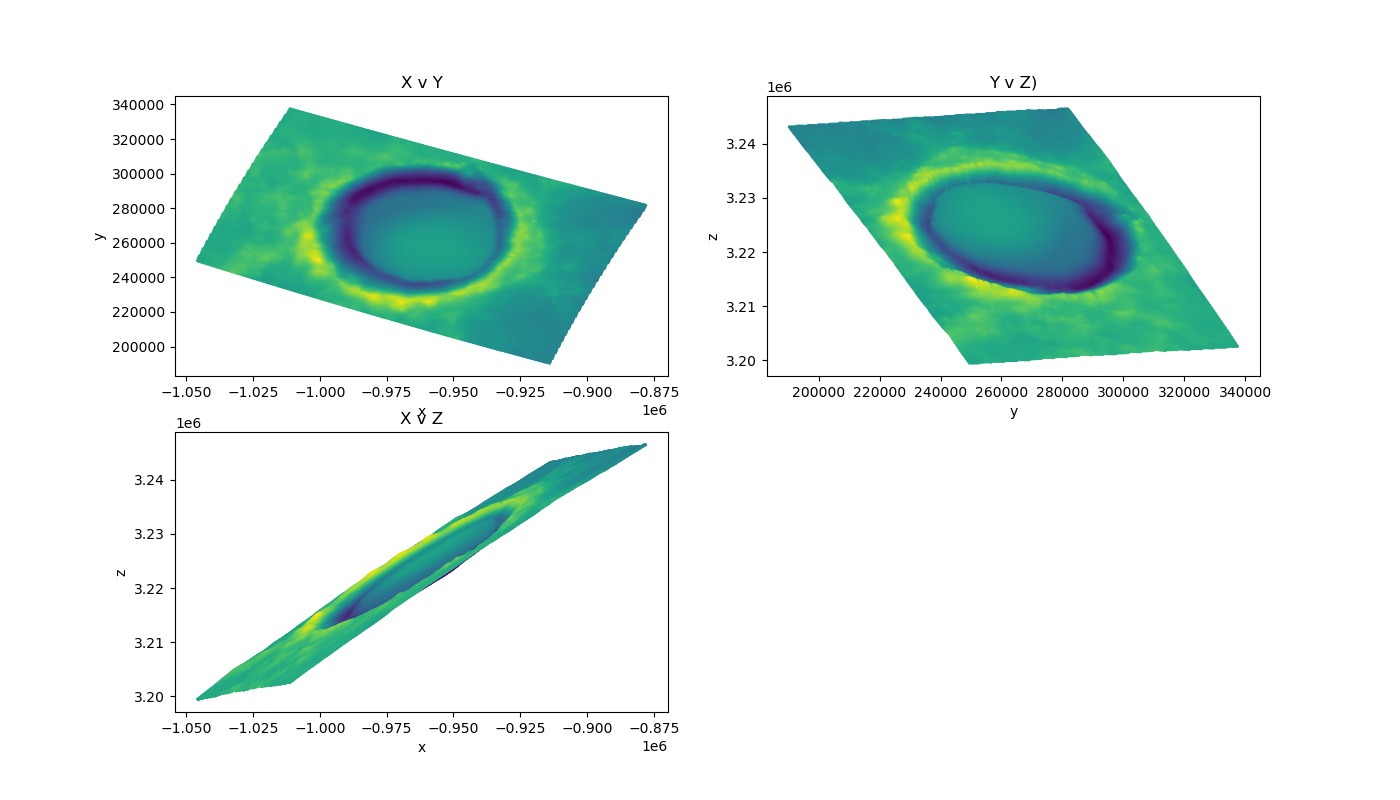
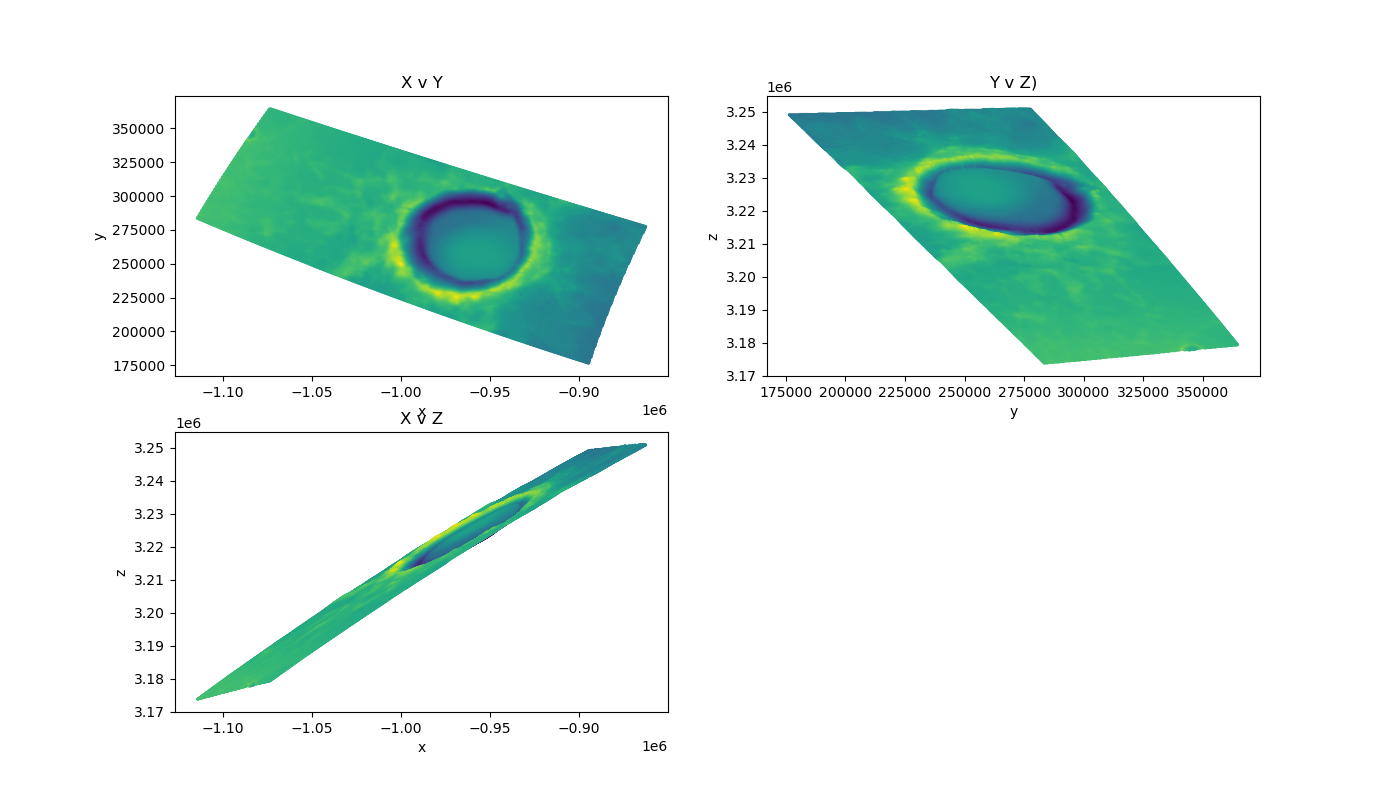
Start of developing a subsurface

diff --git a/examples/KOROLEV/code/TiffToFacets.py b/examples/KOROLEV/code/TiffToFacets.py
@@ -10,8 +10,8 @@ import kutil as ku
 import unit_convs as uc
 
 # path to mars radius DEM
-path = r"data/MOLA/RCropped.tif"
-#path = r"data/MOLA/MOLA_R_KOROLEV.tif"
+#path = r"data/MOLA/RCropped.tif"
+path = r"data/MOLA/MOLA_R_KOROLEV.tif"
 
 # mars radius offset
 MARS_RADIUS = 3396000
@@ -97,15 +97,51 @@ for fill_mat in (dem_inc, dem_azi):
                 break
 # --- END VECTOR NORMAL COMPUTATION --- 
 
+# --- FIND CRATER RIM ---
+# find lat for each lon
+# to do this we split the crater into quadrants and evaluate each independently
+mid_lat = int(data_Rs.shape[0]*(1/3))
+mid_lon = int(data_Rs.shape[1]*(1/2))
+data_Rs_00 = data_Rs[:mid_lat, :mid_lon]
+data_Rs_01 = data_Rs[:mid_lat, mid_lon:]
+data_Rs_10 = data_Rs[mid_lat:, :mid_lon]
+data_Rs_11 = data_Rs[mid_lat:, mid_lon:]
+lat_0, lat_1 = tpar['lats'][:mid_lat], tpar['lats'][mid_lat:]
+lon_0, lon_1 = tpar['lons'][:mid_lon], tpar['lons'][mid_lon:]
+
+mask = np.zeros_like(data_Rs)
+
 # plot vector normals in spherical
 fig, ax = plt.subplots(2, figsize=(8, 6))
-im1 = ax[0].imshow(dem_inc, extent=tpar['extent'])
+im1 = ax[0].imshow(data_Rs, extent=tpar['extent'])
 fig.colorbar(im1, ax=ax[0])
-ax[0].set_title("Inclination angle from North [deg]")
-im2 = ax[1].imshow(dem_azi, extent=tpar['extent'], vmin=145, vmax=175)
-fig.colorbar(im2, ax=ax[1])
-ax[1].set_title("Azimuthal angle from Meridian [deg]")
-for a in ax: a.set_xlabel("Longitude [deg]"); a.set_ylabel("Latitude [deg]")
+
+# then for each quadrant we find the minimums and add to a list
+for i, (sect, pltlat, pltlon) in enumerate(zip((data_Rs_00, data_Rs_01, data_Rs_10, data_Rs_11),
+                                (lat_0, lat_0, lat_1, lat_1), (lon_0, lon_1, lon_0, lon_1))):
+    sect[np.isnan(sect)] = 1e10
+    idx = np.argmin(sect, axis=0)
+    sect[sect > 1e9] = None
+
+    if i > 1:
+        idx += mid_lat
+        
+    for j in range(len(idx)):
+        mask[idx[j]:, j] = 1
+
+    lats = tpar['lats'][idx]
+
+    ax[0].plot(pltlon, lats, color="red")
+
+im2 = ax[1].imshow(mask, extent=tpar['extent'])
+
+#im1 = ax[0].imshow(dem_inc, extent=tpar['extent'])
+#fig.colorbar(im1, ax=ax[0])
+#ax[0].set_title("Inclination angle from North [deg]")
+#im2 = ax[1].imshow(dem_azi, extent=tpar['extent'], vmin=145, vmax=175)
+#fig.colorbar(im2, ax=ax[1])
+#ax[1].set_title("Azimuthal angle from Meridian [deg]")
+#for a in ax: a.set_xlabel("Longitude [deg]"); a.set_ylabel("Latitude [deg]")
 plt.tight_layout()
 plt.savefig("figures/KOR_F_SPNORMS.png")
 plt.close()
